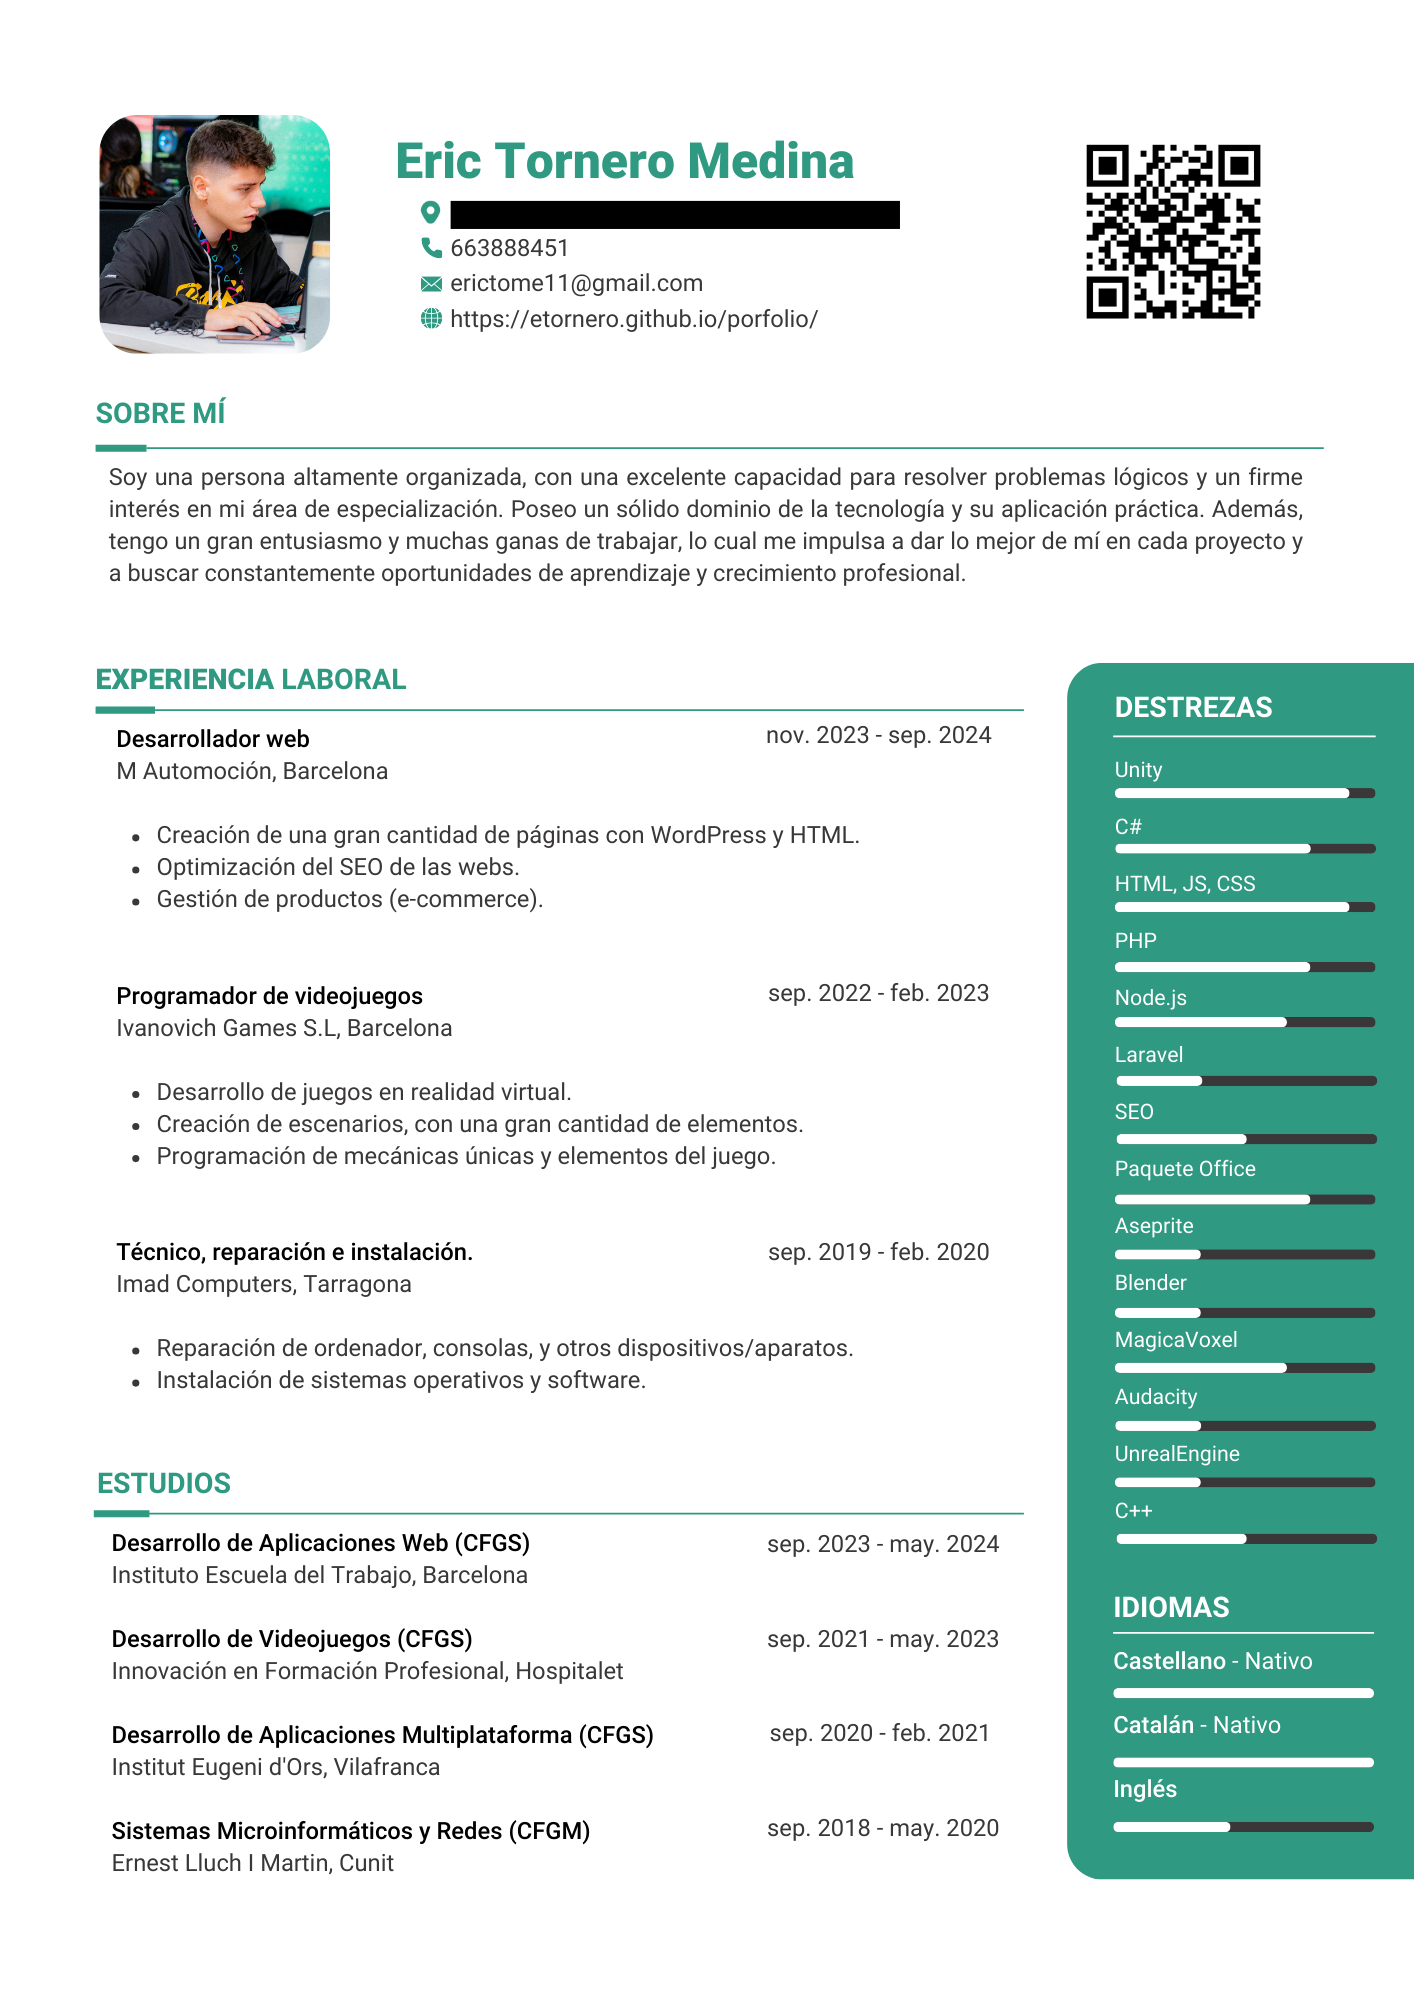
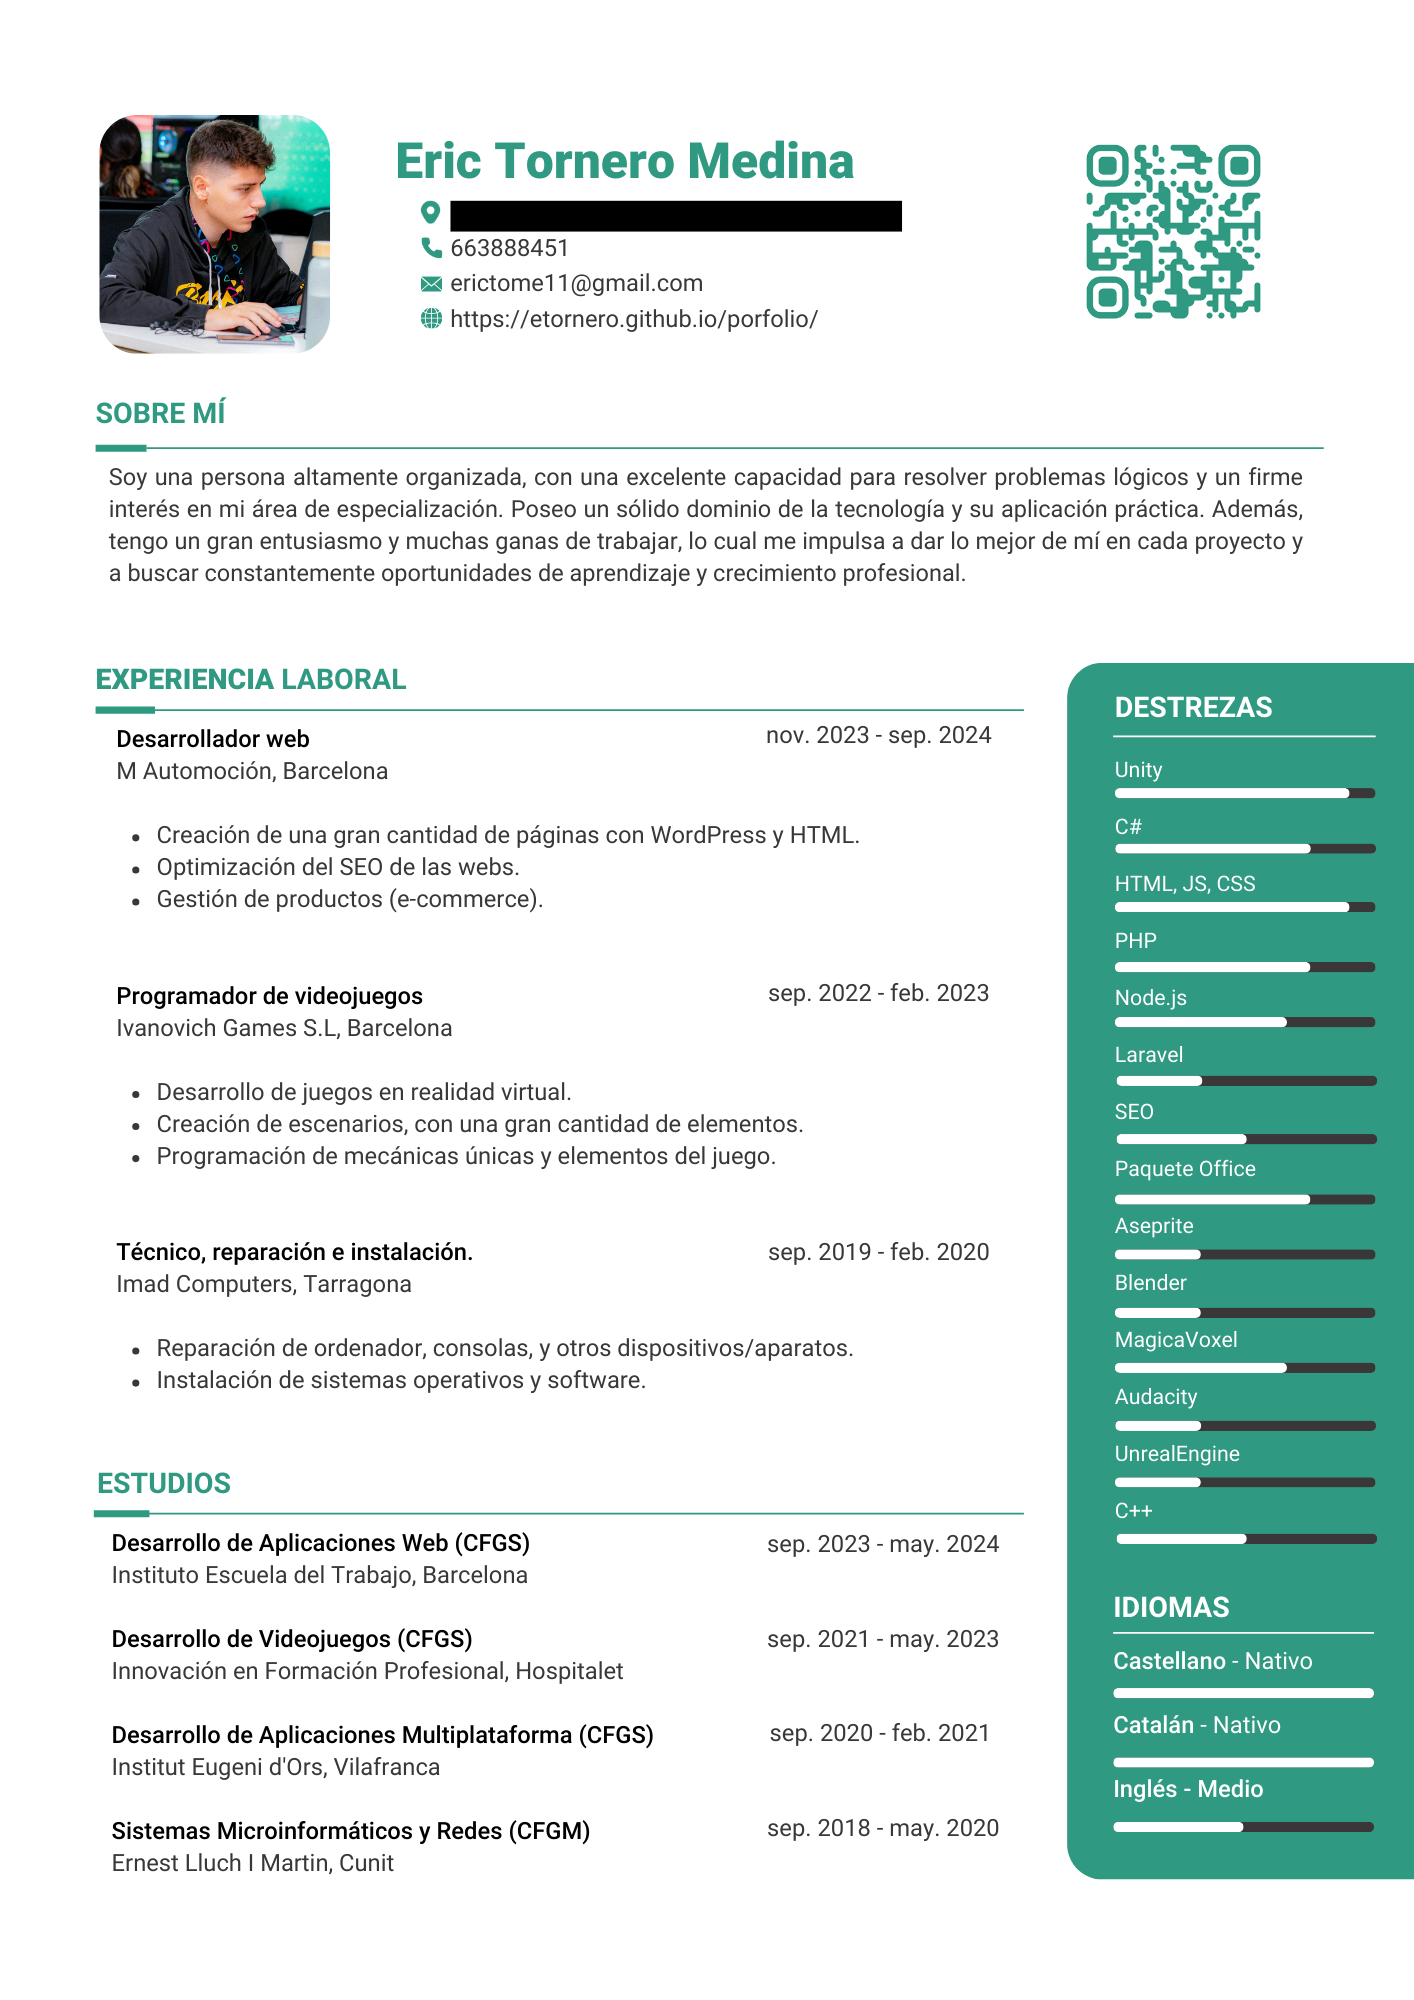
Fix

Changed region(s): [[0.7468, 0.062, 0.9024, 0.186], [0.8402, 0.868, 0.9024, 0.899]]

diff --git a/ca.html b/ca.html
@@ -241,8 +241,8 @@
                             <div class="percent-bar"><div style="width: 100%;"></div></div>
                         </div>
                         <div class="item">
-                            <p class="title">Anglès</p>
-                            <div class="percent-bar"><div style="width: 33%;"></div></div>
+                            <p class="title">Anglès - Mitjà</p>
+                            <div class="percent-bar"><div style="width: 50%;"></div></div>
                         </div>
                     </div>
                 </div>
@@ -392,7 +392,7 @@
                     </div>
                     <div class="item">
                         <img src="./resources/serviceWebIcone.png" alt="Icona de servei web" title="Imatge de servei web" width="50px" height="50px" loading="lazy">
-                        <p class="title">Desenvolupament de videojocs</p>
+                        <p class="title">Desenvolupament de webs</p>
                         <p class="description">
                             Creació de llocs web des de zero utilitzant diverses tecnologies com 
                             HTML, CSS, JavaScript, i frameworks com React, Angular, Vue.js, etc.

diff --git a/index.html b/index.html
@@ -241,8 +241,8 @@
                             <div class="percent-bar"><div style="width: 100%;"></div></div>
                         </div>
                         <div class="item">
-                            <p class="title">Inglés</p>
-                            <div class="percent-bar"><div style="width: 33%;"></div></div>
+                            <p class="title">Inglés - Medio</p>
+                            <div class="percent-bar"><div style="width: 50%;"></div></div>
                         </div>
                     </div>
                 </div>
@@ -393,7 +393,7 @@
                     </div>
                     <div class="item">
                         <img src="./resources/serviceWebIcone.png" alt="Web service icone" title="Web service image" width="50px" height="50px" loading="lazy">
-                        <p class="title">Desarrollo de videojuego</p>
+                        <p class="title">Desarrollo de webs</p>
                         <p class="description">
                             Creación de sitios web desde cero utilizando diversas tecnologías como 
                             HTML, CSS, JavaScript, y frameworks como React, Angular, Vue.js, etc.

diff --git a/en.html b/en.html
@@ -241,8 +241,8 @@
                             <div class="percent-bar"><div style="width: 100%;"></div></div>
                         </div>
                         <div class="item">
-                            <p class="title">English</p>
-                            <div class="percent-bar"><div style="width: 33%;"></div></div>
+                            <p class="title">English - Half</p>
+                            <div class="percent-bar"><div style="width: 50%;"></div></div>
                         </div>
                     </div>
                 </div>
